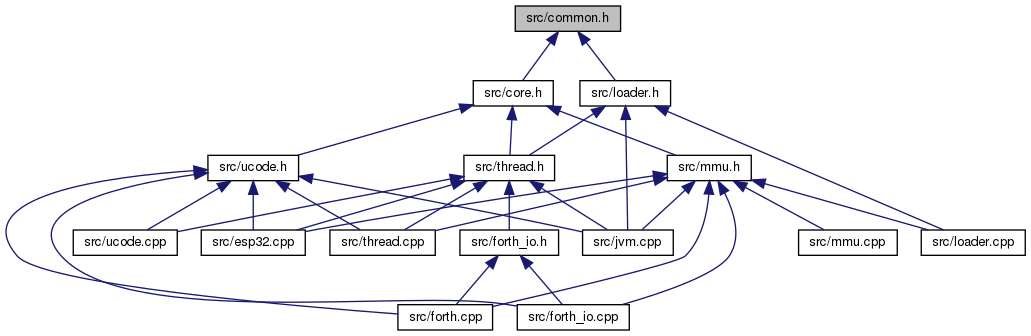
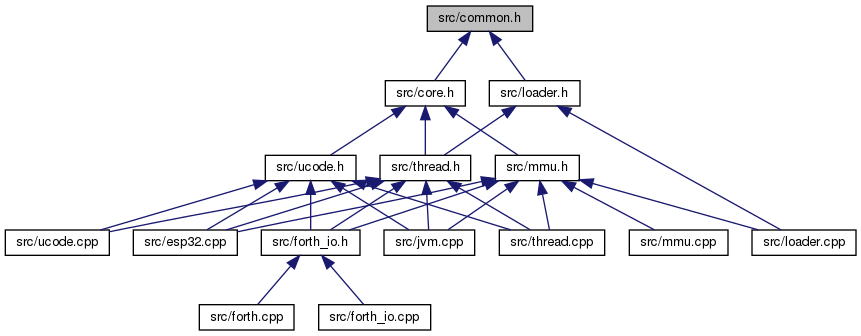
~/src/forth_io to include mmu.h and ucode.h (to simplify dependency tree)

diff --git a/src/forth_io.cpp b/src/forth_io.cpp
@@ -2,9 +2,7 @@
 #include <iostream>     // cin, cout
 #include <iomanip>      // setbase
 #include <string>       // string class (for TIB)
-#include "ucode.h"      // DOLIT
-#include "mmu.h"		// memory pool manager
-#include "forth_io.h"	// Forth IO interface
+#include "forth_io.h"	// Forth IO interface (include mmu.h, ucode.h, thread.h)
 
 using namespace std;    // default to C++ standard template library
 void send_to_con(int len, const char *msg) { LOG(msg); }

diff --git a/src/forth.cpp b/src/forth.cpp
@@ -1,6 +1,4 @@
-#include "mmu.h"             // memory pool manager
-#include "ucode.h"           // microcode list
-#include "forth_io.h"        // Forth outer interpreter and IO interface
+#include "forth_io.h"        // Forth outer interpreter (include mmu.h, ucode.h, thread.h)
 
 #define CELL(a)     (*(DU*)(t.M0 + a))   /** fetch a cell from parameter memory */
 #define CODE(s, g)  { s, [](Thread &t){ g; }, 0 }

diff --git a/src/jvm.cpp b/src/jvm.cpp
@@ -3,8 +3,7 @@
 #include <iomanip>      // setbase
 #include "ucode.h"		// microcode manager
 #include "mmu.h"		// memory pool manager
-#include "thread.h"     // thread/task interface
-#include "loader.h"     // bytecode loader
+#include "thread.h"     // thread/task interface (include loader.h)
 #include "jvm.h"		// virtual machine core
 
 using namespace std;    // default to C++ standard template library

diff --git a/src/forth_io.h b/src/forth_io.h
@@ -3,7 +3,9 @@
 ///
 #ifndef NANOJVM_FORTH_IO_H
 #define NANOJVM_FORTH_IO_H
+#include "ucode.h"
 #include "thread.h"
+#include "mmu.h"
 
 char *next_word();
 char *scan(char c);
